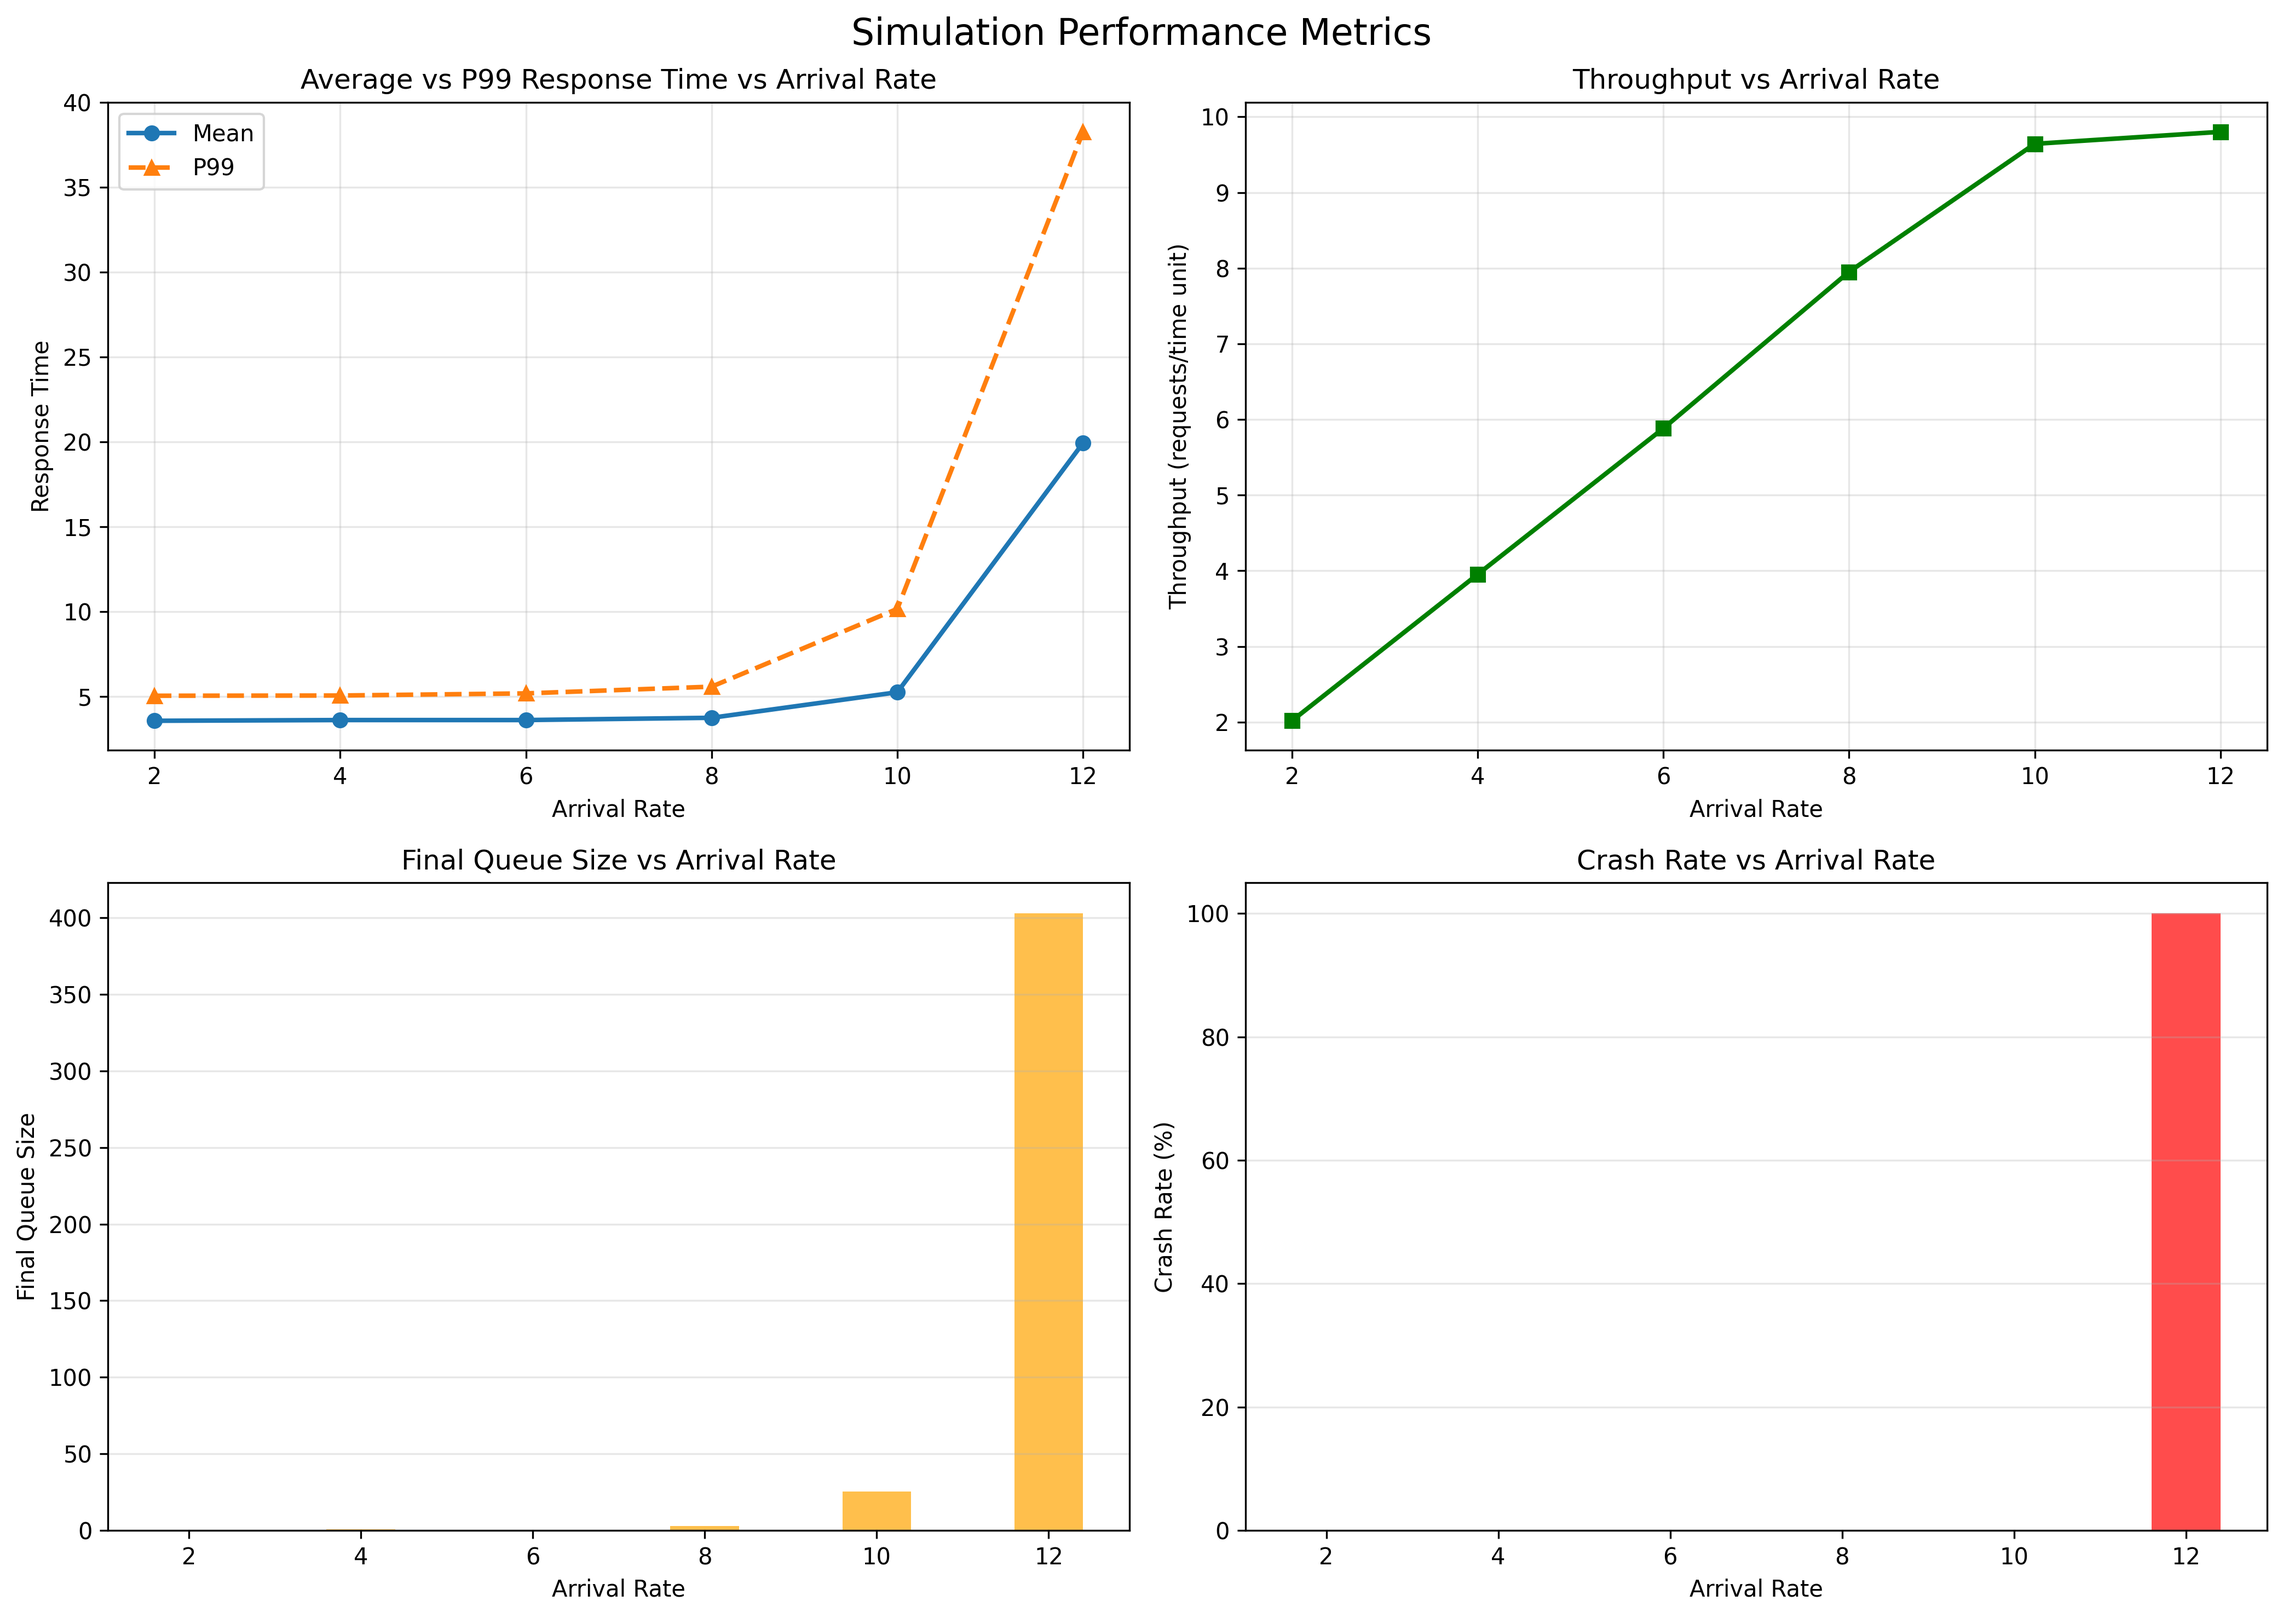
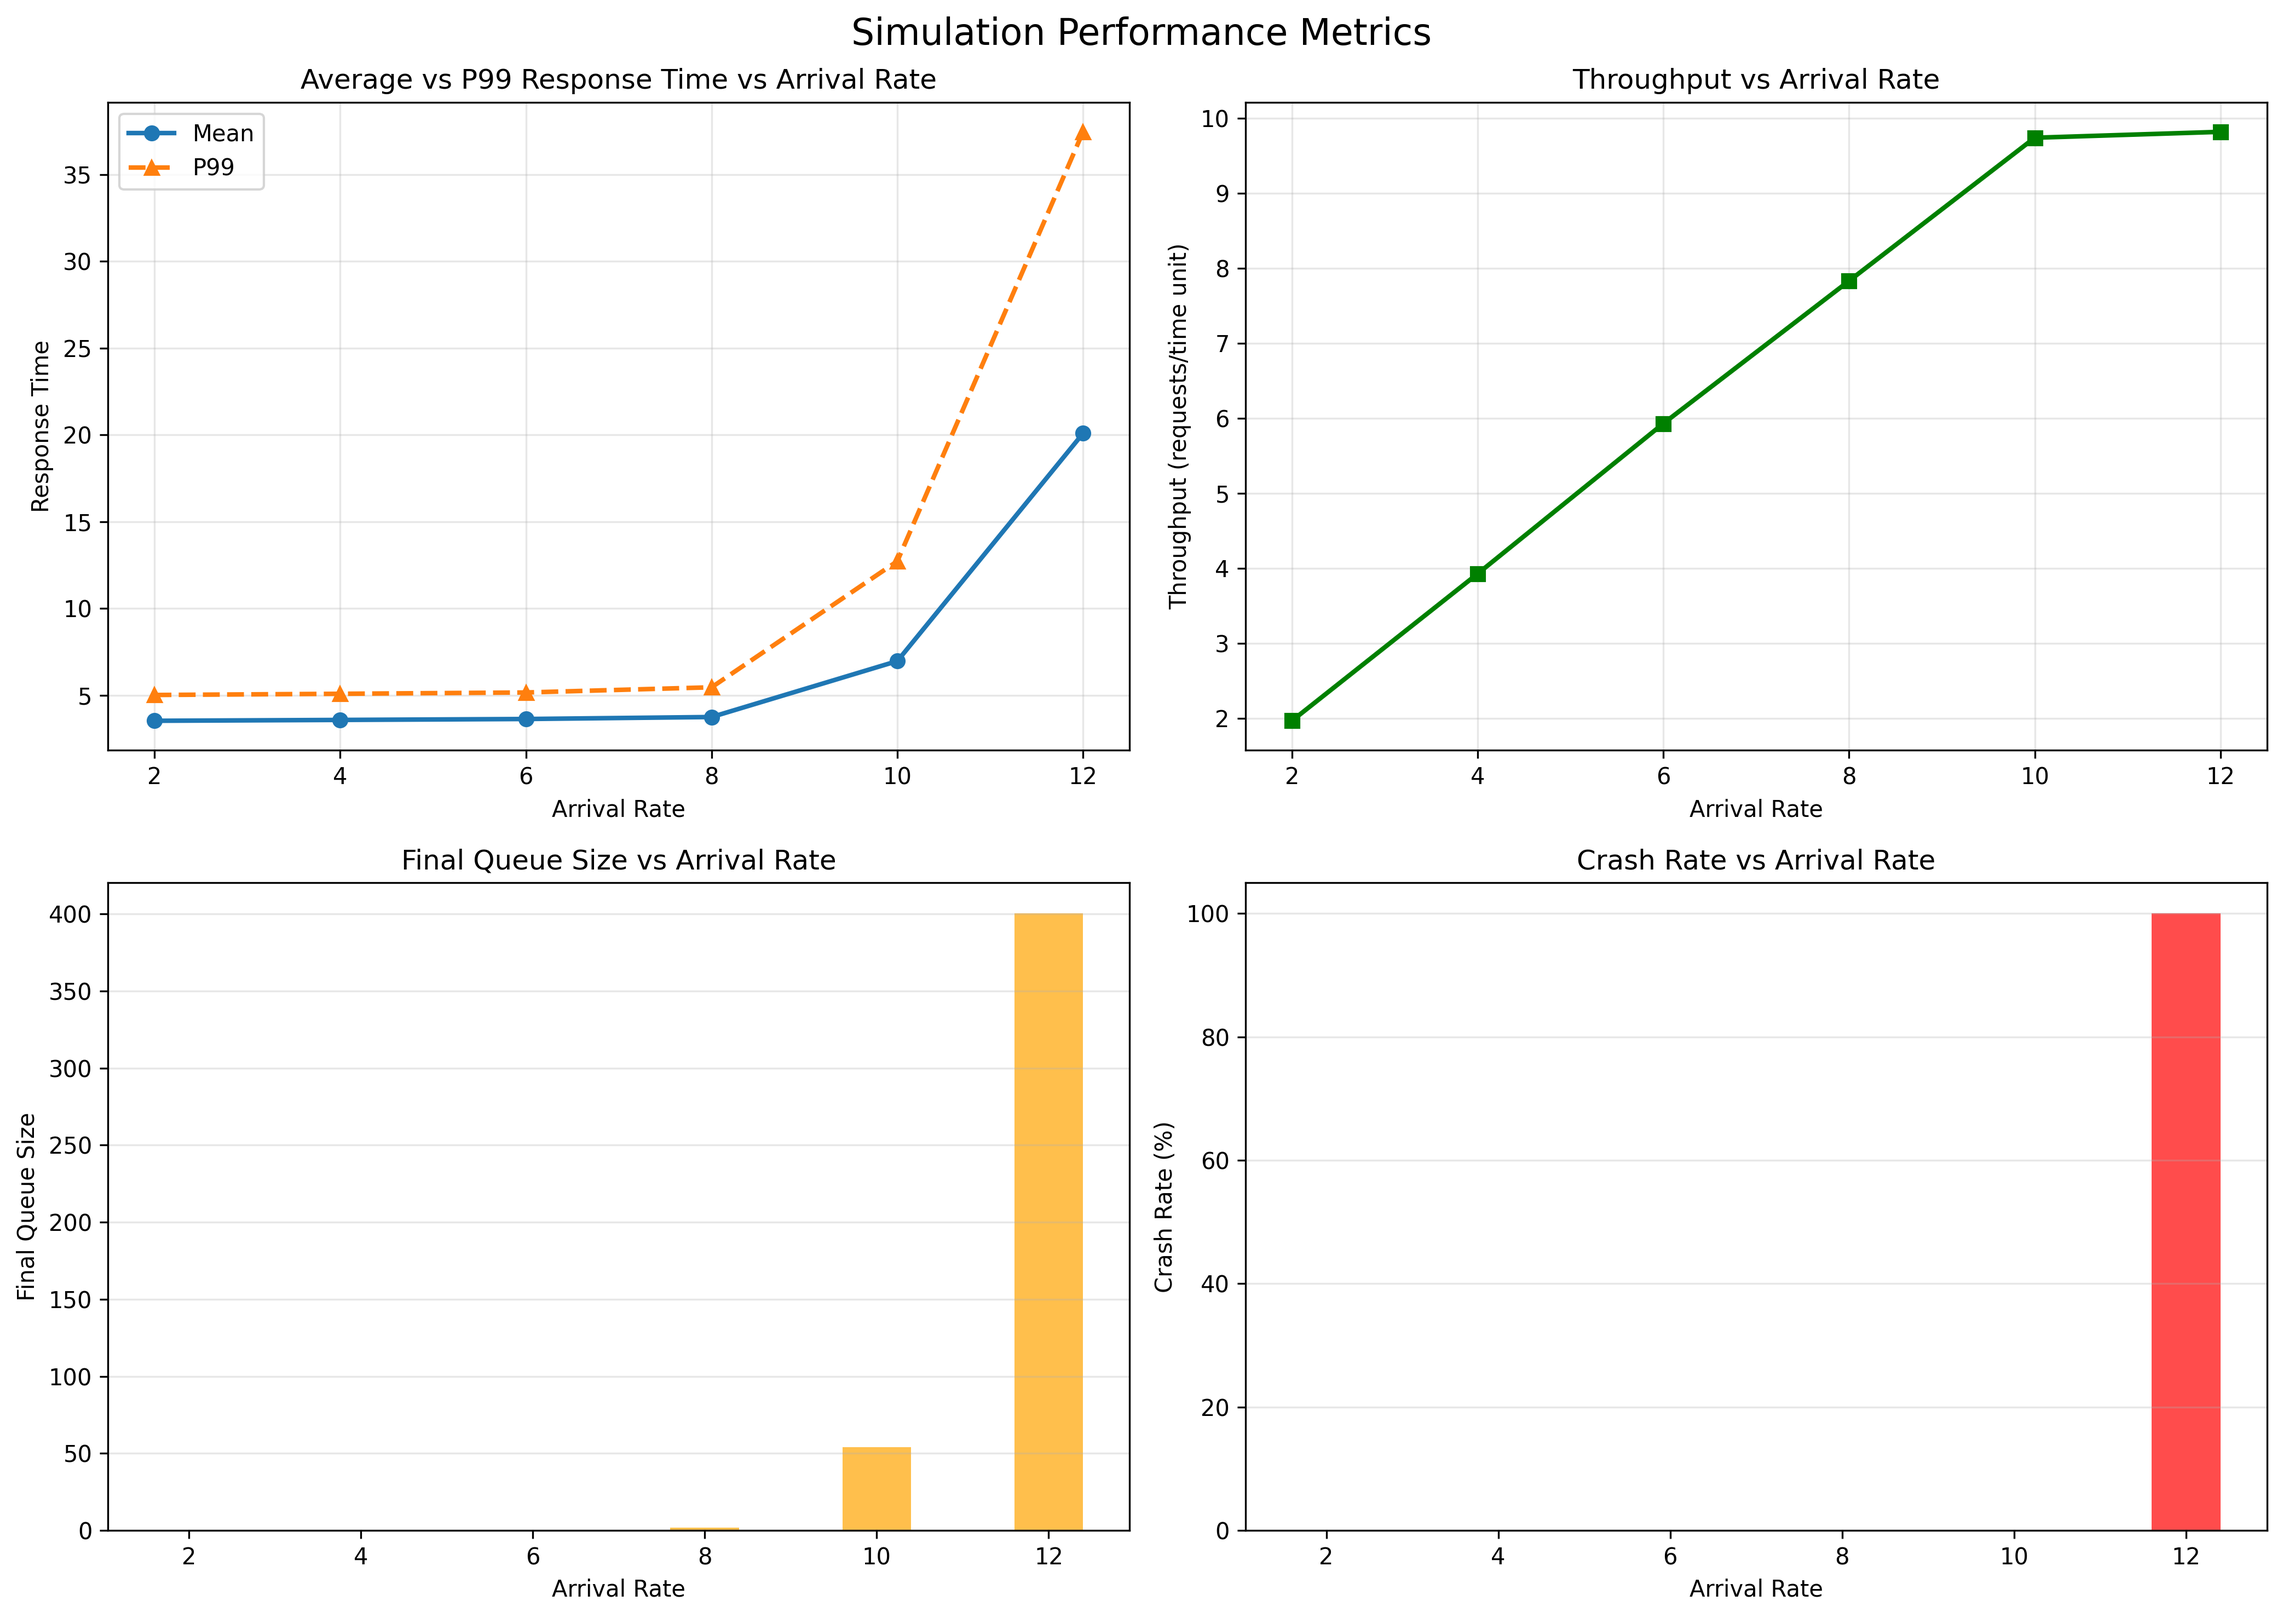
Infrastructure ready for rl

diff --git a/src/core/routing_engine.py b/src/core/routing_engine.py
@@ -1,19 +1,58 @@
+import random
+from src.rl.q_learning_agent import QLearningAgent
+from src.utils.load_predictor import LoadPredictor
+from configs.simulation_config import FIXED_THRESHOLD
+
 class RoutingEngine:
 
     def __init__(self, rearrangement_policy, balancer):
         self.rearrangement_policy = rearrangement_policy
         self.balancer = balancer
+        self.agent = QLearningAgent()
+        self.load_predictor = LoadPredictor(window=5)
+        self.load_threshold = FIXED_THRESHOLD
 
     def run(self, env, queue, servers, log_store):
 
         while True:
             if queue:
-
-                self.rearrangement_policy.rearrange(queue, env.now)
+                # STEP 4: Proactive load prediction
+                predicted_load = self.load_predictor.predict()
+                
+                # Rearrange if predicted load is high (proactive)
+                if self.load_predictor.is_overloaded(self.load_threshold - 2):
+                    self.rearrangement_policy.rearrange(queue, env.now)
+                else:
+                    # Still update waiting times even if not rearranging
+                    for event in queue:
+                        event.waiting_time = env.now - event.arrival_time
 
                 event = queue.pop(0)
-                server = self.balancer.select_server(servers, event)
+                
+                # Hybrid server selection with QL agent
+                queue_len = len(queue)
+                loads = [len(s.jobs) for s in servers]
+                imbalance = max(loads) - min(loads)
+                
+                state = self.agent.get_state(queue_len, imbalance)
+                action = self.agent.choose_action(state)
+                
+                if action == 0:
+                    # Action 0: Use least-loaded balancer
+                    server = self.balancer.select_server(servers, event)
+                else:
+                    # Action 1: Random server selection
+                    server = random.choice(servers)
 
-                env.process(server.process(env, event, log_store))
+                # STEP 3: Pass agent info to server for reward calculation
+                env.process(server.process(env, event, log_store, 
+                                          agent=self.agent, 
+                                          state=state, 
+                                          action=action, 
+                                          queue=queue, 
+                                          servers=servers))
+                
+                # Update load history for prediction
+                self.load_predictor.add_measurement(queue_len)
 
             yield env.timeout(0.1)

diff --git a/src/core/server.py b/src/core/server.py
@@ -7,7 +7,7 @@ class Server:
         self.id = server_id
         self.jobs = []
 
-    def process(self, env, event, log_store):
+    def process(self, env, event, log_store, agent=None, state=None, action=None, queue=None, servers=None):
         event.start_time = env.now
         self.jobs.append(event)
 
@@ -16,3 +16,17 @@ class Server:
         event.finish_time = env.now
         self.jobs.remove(event)
         log_store.append(event)
+        
+        # STEP 3: Calculate reward and update agent
+        if agent is not None and state is not None and action is not None:
+            response_time = event.finish_time - event.arrival_time
+            reward = -response_time  # minimize latency
+            
+            # Get next state
+            queue_len = len(queue) if queue is not None else 0
+            loads = [len(s.jobs) for s in servers] if servers is not None else [0]
+            imbalance = max(loads) - min(loads) if loads else 0
+            next_state = agent.get_state(queue_len, imbalance)
+            
+            # Update agent
+            agent.update(state, action, reward, next_state)

diff --git a/src/utils/load_predictor.py b/src/utils/load_predictor.py
@@ -1,0 +1,28 @@
+class LoadPredictor:
+    """Predicts system load using moving average."""
+    
+    def __init__(self, window=5):
+        self.window = window
+        self.history = []
+    
+    def moving_average(self, history=None):
+        """Calculate moving average of queue lengths."""
+        if history is None:
+            history = self.history
+        
+        if len(history) < self.window:
+            return sum(history) / len(history) if history else 0
+        
+        return sum(history[-self.window:]) / self.window
+    
+    def add_measurement(self, queue_length):
+        """Add new queue length measurement."""
+        self.history.append(queue_length)
+    
+    def predict(self):
+        """Get predicted load (moving average)."""
+        return self.moving_average()
+    
+    def is_overloaded(self, threshold):
+        """Check if predicted load exceeds threshold."""
+        return self.predict() > threshold

diff --git a/src/rl/q_learning_agent.py b/src/rl/q_learning_agent.py
@@ -1,0 +1,27 @@
+import random
+import numpy as np
+
+class QLearningAgent:
+    def __init__(self):
+        self.q_table = {}
+        self.alpha = 0.1
+        self.gamma = 0.9
+        self.epsilon = 0.2
+
+    def get_state(self, queue_len, imbalance):
+        return (queue_len // 5, imbalance // 2)
+
+    def choose_action(self, state):
+        if random.random() < self.epsilon:
+            return random.randint(0, 1)
+        return self.q_table.get(state, [0, 0]).index(max(self.q_table.get(state, [0, 0])))
+
+    def update(self, state, action, reward, next_state):
+        self.q_table.setdefault(state, [0, 0])
+        self.q_table.setdefault(next_state, [0, 0])
+
+        best_next = max(self.q_table[next_state])
+
+        self.q_table[state][action] += self.alpha * (
+            reward + self.gamma * best_next - self.q_table[state][action]
+        )
